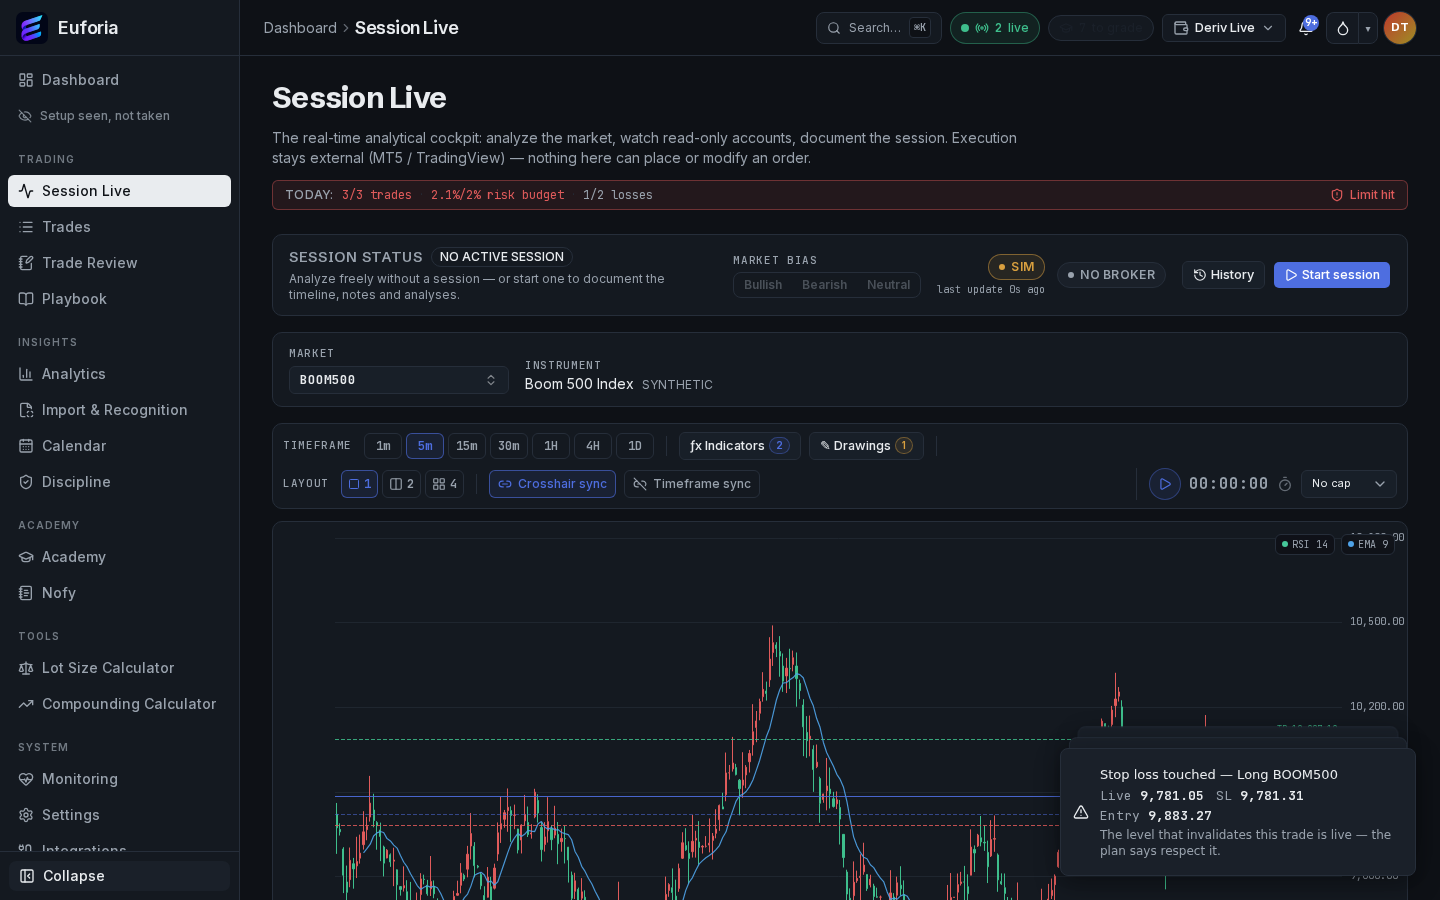
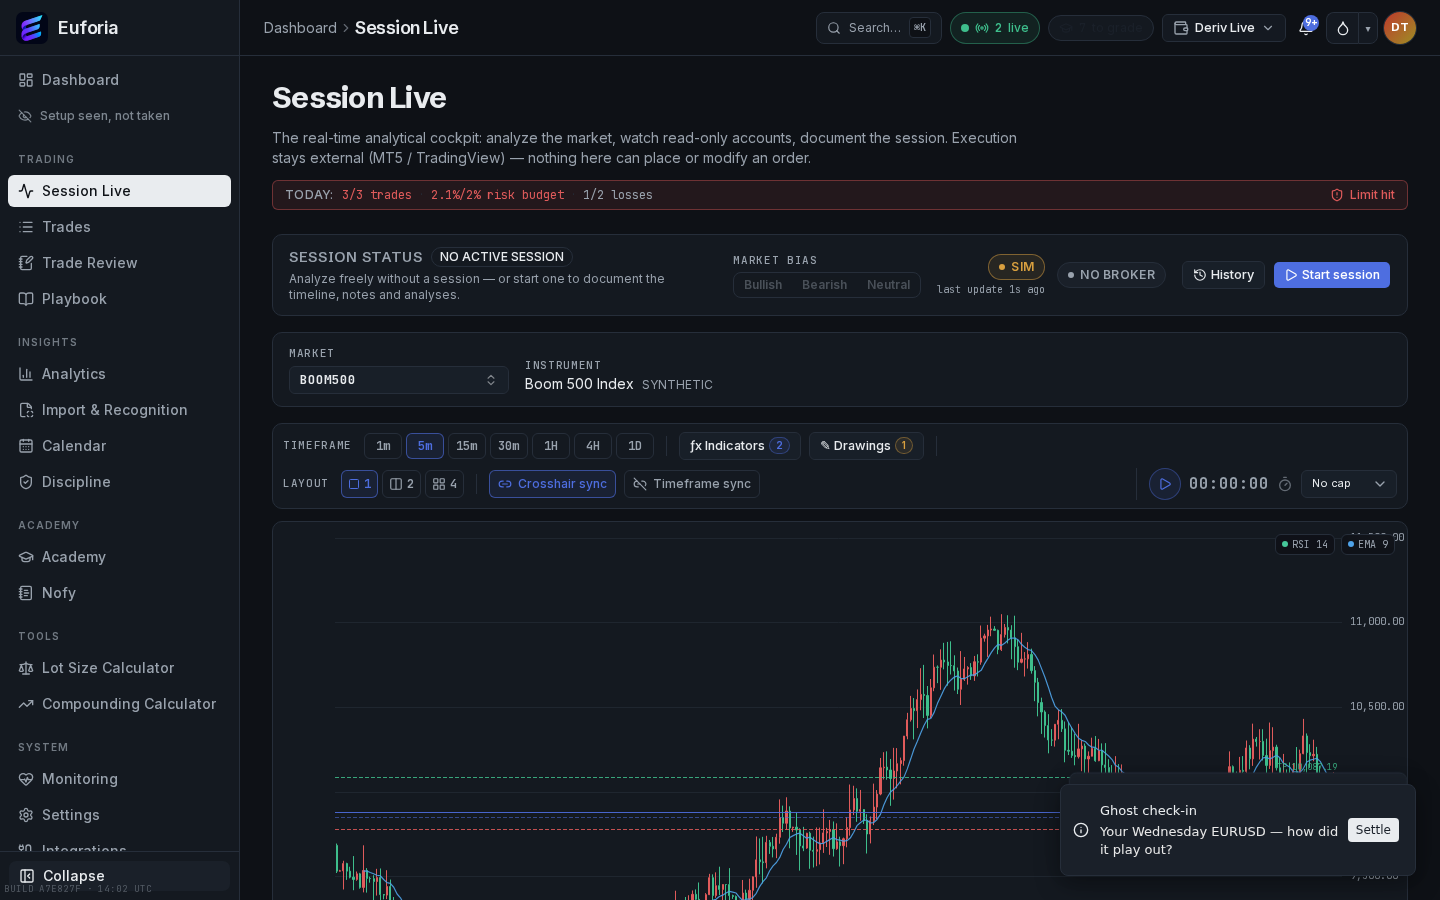
feat(web): visible build stamp (git hash + UTC time, bottom-left chip) — preview self-identification after sandbox restarts; fix boot hook: bun install market-service deps before start (incident 2026-10-08 root cause); probe 20/20 green

Changed region(s): [[0.2188, 0.7156, 0.9688, 1.0], [0.625, 0.6844, 0.7188, 0.84], [0.5938, 0.9644, 0.625, 1.0]]

diff --git a/apps/web/src/components/layout/build-stamp.tsx b/apps/web/src/components/layout/build-stamp.tsx
@@ -1,0 +1,33 @@
+import { execSync } from "node:child_process";
+
+/**
+ * Build stamp (preview trust aid): a whisper-quiet fixed chip that shows
+ * WHICH artifact the browser is looking at — git short hash + build time.
+ * Purpose: after a sandbox restart the user must be able to tell "am I
+ * seeing the current build or a stale link/cache?" at a glance, without
+ * opening devtools. Server component: git is read ONCE per render — in the
+ * production build the value bakes into the static RSC payload; in dev it
+ * re-reads per request (negligible cost).
+ */
+function readStamp(): string {
+  try {
+    const hash = execSync("git rev-parse --short HEAD", { cwd: process.cwd(), encoding: "utf8" }).trim();
+    const time = new Date().toLocaleTimeString("en-GB", { hour: "2-digit", minute: "2-digit", hour12: false, timeZone: "UTC" });
+    return `build ${hash} · ${time} UTC`;
+  } catch {
+    return "build dev";
+  }
+}
+
+export function BuildStamp() {
+  const stamp = readStamp();
+  return (
+    <div
+      aria-hidden
+      data-testid="build-stamp"
+      className="pointer-events-none fixed bottom-1 left-1 z-50 hidden select-none font-mono text-[9px] uppercase tracking-widest text-muted-foreground/45 sm:block"
+    >
+      {stamp}
+    </div>
+  );
+}

diff --git a/apps/web/src/app/layout.tsx b/apps/web/src/app/layout.tsx
@@ -1,6 +1,7 @@
 import { Inter, Schibsted_Grotesk, JetBrains_Mono } from "next/font/google";
 import type { Metadata, Viewport } from "next";
 import { Toaster } from "@/components/ui/sonner";
+import { BuildStamp } from "@/components/layout/build-stamp";
 import { ThemeProvider } from "@/components/layout/theme-provider";
 import { QueryProvider } from "@/components/providers/query-provider";
 import { MockProvider } from "@/components/providers/mock-provider";
@@ -59,6 +60,7 @@ export default function RootLayout({ children }: { children: React.ReactNode }) 
           </QueryProvider>
           <Toaster position="bottom-right" mobileOffset={{ bottom: 84 }} />
         </ThemeProvider>
+        <BuildStamp />
         <ServiceWorkerRegister />
       </body>
     </html>
